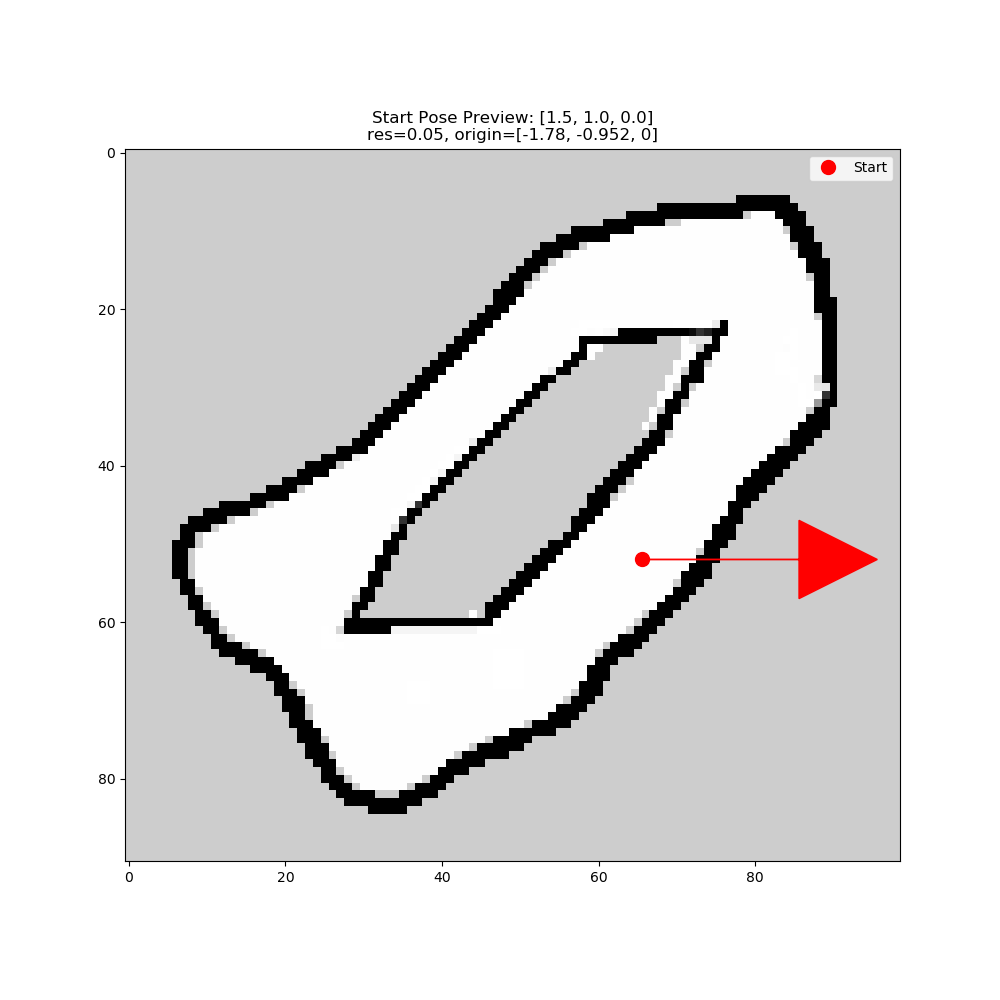
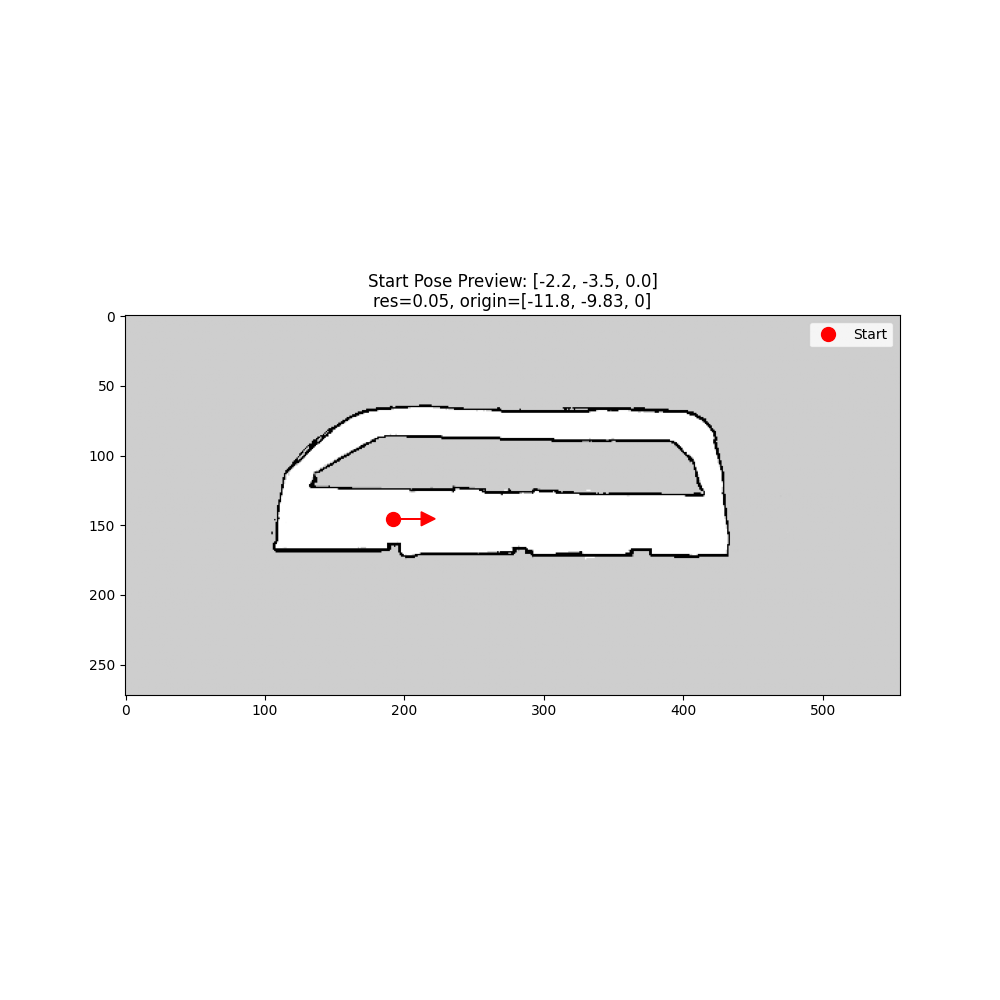
feat:exp37のために改善

diff --git a/src/rewards.py b/src/rewards.py
@@ -74,75 +74,49 @@ def calculate_reward(
         return cfg.reward_collision
 
     # ================================================================
-    # EXP-32: Hokuyo URG 270° マスキング (Sim-to-Real ギャップ解消)
+    # Hokuyo URG 270° マスキング (Sim-to-Real 対応)
     # 実機のHokuyo LiDARは後方90°が不可視。後方のインデックスを除外する。
     # 1080点(360°) → 810点(270°): 後方 135点ずつを除外
-    #   Index: 0=右後方(-135°), 405=正前方(0°), 810=左後方(+135°)
     # ================================================================
     _H_START, _H_END = 135, 945
     s = scans[_H_START:_H_END]  # 810点: -135°〜+135°
 
-    # 1. 前方空間報酬 (±60° = 810点の中心405±180点)
+    # 1. 前方空間報酬 (±60°)
     front_dist = np.min(s[225:585])
     reward = (front_dist / 30.0) * cfg.reward_front_weight
 
-    # 2. 側面壁距離を個別に取得 (狭い直線・カーブ対策の核心)
-    #    270°の場合: 右90° ≒ index 135付近, 左90° ≒ index 675付近
+    # 2. 側面壁距離の取得 (センターライン計算用)
     right_side = np.min(s[90:270])    # 右方向 (-90°±45°帯)
     left_side  = np.min(s[540:720])   # 左方向 (+90°±45°帯)
-    side_min   = min(right_side, left_side)
 
-    # 3. 速度報酬 / コーナー前補正 (EXP-32: 4段階評価)
+    # 3. 速度報酬 (EXP-25: 2.0m基準のシンプル補正)
     speed_factor = current_speed / cfg.max_speed
-    if front_dist < 2.0:           # 壁が目前: 強制ブレーキ
-        reward -= speed_factor * cfg.reward_speed_weight * 3.0
-        progress_scale = 0.05
-    elif front_dist < 4.0:         # コーナー手前: 早めに減速開始
-        reward += speed_factor * cfg.reward_speed_weight * 0.05
-        progress_scale = 0.4
-    elif front_dist < 7.0:         # 中間距離: 慎重に加速
-        reward += speed_factor * cfg.reward_speed_weight * 0.6
-        progress_scale = 0.8
-    else:                          # 直線: 加速推奨
+    if front_dist < 2.0:           # 壁が目前: ブレーキ奨励
+        reward -= speed_factor * cfg.reward_speed_weight * 2.0
+        progress_scale = 0.5
+    else:                          # 通常・直線: 加速推奨
         reward += speed_factor * cfg.reward_speed_weight
         progress_scale = 1.0
 
-    # 4. 安全距離スコア（全方位・連続関数で滑らかな勾配）
+    # 4. 安全距離スコア
     wall_dist = np.min(s)
     safety_score = np.clip(wall_dist / 2.0, 0.0, 1.0)
     reward += (safety_score - 0.5) * cfg.reward_safety_weight
 
-    # 5. センターライン維持【EXP-32 最優先: 二乗ペナルティ化】
-    # 狭い直線でもドリフトは即死のため、中心を外すほど急激にマイナス
+    # 5. センターライン維持 (EXP-25: 二乗なしの比率ペナルティ)
     total_width  = left_side + right_side
-    center_ratio = abs(left_side - right_side) / (total_width + 1e-6)  # 0=中央, 1=壁
-    center_penalty = -(center_ratio ** 2) * 10.0  # EXP-35: 20.0 -> 10.0 (物理を戻したのでマージン緩和)
+    center_ratio = abs(left_side - right_side) / (total_width + 1e-6)
+    center_penalty = -center_ratio * 4.0  # EXP-25: シンプルなペナルティ
     reward += center_penalty
 
-    # 6. 側面壁への超近距離ペナルティ【狭い直線対策: デッドライン0.35m】
-    # マシン横幅0.19m + 安全マージン ≈ 0.35mを死線とする
-    if side_min < 0.35:
-        reward += -np.exp(6.0 * (0.35 - side_min))   # 係数3→6に増強
-
-    # 7.「狭いカーブ」複合ペナルティ【EXP-32 核心: 前方詰まり × 側面接近の同時発生】
-    # 最も危険な状況（前が閉じていて左右も余裕がない）に重ペナルティ
-    in_narrow_curve = (front_dist < 4.5) and (side_min < 0.7)
-    if in_narrow_curve:
-        reward -= speed_factor * 4.0          # スピードを出しているほど強いペナルティ
-        reward += (1.0 - abs(action[0])) * 0.8  # じわっとしたステアを強く評価
-
-    # 8. 全方位近接ペナルティ (デッドライン 0.6→0.35m に厳格化)
-    if wall_dist < 0.35:
-        reward += -np.exp(4.0 * (0.35 - wall_dist))
-
-    # 9. 走行距離報酬（進行を促進、円形走行抑制）
+    # 6. 走行距離報酬
     progress = np.sqrt((cur_x - prev_x) ** 2 + (cur_y - prev_y) ** 2)
     reward += progress * cfg.reward_progress_weight * progress_scale
 
-    # 10. ステアリング安定性（中速域でも適用: front_dist > 3m で有効）
-    if front_dist > 3.0:
-        reward += (1.0 - abs(action[0])) * 0.4   # 係数 0.3→0.4
+    # 7. ステアリング安定性
+    reward += (1.0 - abs(action[0])) * 0.3
 
+    # 8. 生存報酬
     reward += cfg.reward_survival
 
     return reward

diff --git a/src/f1_env.py b/src/f1_env.py
@@ -41,8 +41,8 @@ class F1TenthRL(gym.Env):
             self.env.sim.agents[0].params['width'] = config.CAR_WIDTH
         
         # 観測空間の計算
-        # 1. LiDAR: 1080 -> ダウンサンプリング
-        self.lidar_size = 1080 // config.LIDAR_DOWNSAMPLE_FACTOR
+        # 1. LiDAR: 1080 -> 270°(810点) に制限しダウンサンプリング
+        self.lidar_size = 810 // config.LIDAR_DOWNSAMPLE_FACTOR
         
         # 2. 車両状態: [速度, ステアリング] (2次元)
         self.state_size = 2 if config.INCLUDE_VEHICLE_STATE else 0
@@ -82,8 +82,8 @@ class F1TenthRL(gym.Env):
         """
         生の観測データを加工して返す
         """
-        # LiDARデータのダウンサンプリング (EXP-23: mean -> min に復帰。積層も維持)
-        scans = raw_obs['scans'][0]
+        # LiDARデータのスライス (270°: 135-945) & ダウンサンプリング
+        scans = raw_obs['scans'][0][135:945]
         downsampled = scans.reshape(self.lidar_size, config.LIDAR_DOWNSAMPLE_FACTOR).min(axis=1)
         
         # ΔLiDAR（残差）の計算
@@ -143,8 +143,8 @@ class F1TenthRL(gym.Env):
         result = self.env.reset(poses=initial_poses)
         raw_obs = result[0] if isinstance(result, tuple) else result
 
-        # 初期状態のLiDARを取得してprev_lidarをセット
-        scans = raw_obs['scans'][0]
+        # 初期状態のLiDARをスライスしてprev_lidarをセット
+        scans = raw_obs['scans'][0][135:945]
         self.prev_lidar = scans.reshape(self.lidar_size, config.LIDAR_DOWNSAMPLE_FACTOR).min(axis=1)
 
         # 前位置をリセット

diff --git a/EXPERIMENT_REPORT.md b/EXPERIMENT_REPORT.md
@@ -94,12 +94,22 @@
     *   **目的**: 基本に立ち返り、`MIN_SPEED=0.1`, `MAX_SPEED=0.5` という超低速設定を導入。AIに「どんなに遅くても良いから、壁を避ければ報酬が得られる」という生存本能を徹底的に学習させる。
     *   **期待**: 低速での「絶対完走」を達成し、そこから段階的に速度（MAX_SPEED）を上げていくための最強のベースモデルを作成する。
 
+### フェーズ10：実機仕様への完全移行と新規挑戦（EXP-37 〜）
+プロジェクトの更なる Sim-to-Real 精度向上を目指し、AI の観測そのものを実機の物理限界に合わせる抜本的な再定義を行った。
+
+*   **EXP-37 (`270° Sensor Fusion & Fresh Start`)**
+    *   **事実**: 従来の 360° LiDAR は後方の壁まで見えており、実機の 270° センサー（Hokuyo URG）との間に情報の乖離（Sim-to-Real Gap）があった。
+    *   **戦略**: AI の入力ベクトルそのものを 108 次元から 81 次元（270°相当）に制限。次元変更を伴うため、過去のモデルを継承せず、新規マップ `map-tamoku` にてゼロから学習を開始。
+    *   **報酬**: 最も成功した EXP-25 のシンプルロジックをベースとし、前方 2.0m 基準の減速制御を統合。
+    *   **期待**: 「見えないものは無視する」という実機に忠実な視界を持たせることで、体育館のような広大かつ特殊な空間における制御の堅牢性を高める。
+
 ## 【まとめと今後の知見】
 本プロジェクトを通じて得られた最大の知見は以下の通りである。
 
-1.  **物理的制約の早期特定**: `MIN_SPEED` や実機寸法など、AI以前の物理パラメータがボトルネックになる。
+1.  **物理的制約の早期特定**: `MIN_SPEED` や実機寸法など、AI 以前の物理パラメータがボトルネックになる。
 2.  **カリキュラム学習の威力**: 困難な課題にいきなり挑ませず、広いコースから段階的に適応させる（Resume/Transfer Learning）ことが、複雑な地形への唯一の攻略法である。
-3.  **仮想的なマージン（Ghost Width）**: 衝突ギリギリの極狭環境では、AIに「実際より大きい自分」を意識させることで、不確定要素（スリップや処理遅延）に対する余裕が生まれる。
-4.  **Sim-to-Realの整合性**: 実機スペック（270°スキャン等）をシミュレーションの報酬系に最初から組み込むことで、現場での適応をスムーズにする。
+3.  **仮想的なマージン（Ghost Width）**: 衝突ギリギリの極狭環境では、AI に「実際より大きい自分」を意識させることで、不確定要素（スリップや処理遅延）に対する余裕が生まれる。
+4.  **Sim-to-Realの整合性**: 実機スペック（270°スキャン等）を観測および報酬系に最初から組み込むことで、現場での適応をスムーズにする。
+5.  **環境統計の重要性**: 広大なマップでは `LIDAR_MEAN` などの分布が極端に変化するため、学習開始前のキャリブレーションとそれに基づいた正規化が学習速度を左右する。
 
 今後は、実機搭載に向けた軽量化（ONNX化）や、動的障害物への対応などを視野に入れ、さらなる高度な自律走行（最短タイムの追求）を目指す。

diff --git a/README.md b/README.md
@@ -37,7 +37,7 @@ tensorboard --logdir logs --host localhost
 本プロジェクトでは、段階的な実験を通じて、F1Tenth車両の限界性能を引き出す学習を進めています。
 
 ### 🎯 技術的アプローチ
-- **LiDARダウンサンプリング**: 1080点 → 108点 / 216点に圧縮。計算負荷を抑えつつエッジを保持。
+- **LiDARダウンサンプリング**: 1080点 → 108点に圧縮。さらに実機（Hokuyo）に合わせ観測範囲を **270°** に制限することで Sim-to-Real ギャップを最小化。
 - **フレーム積層 (Frame Stacking)**: 複数フレームを重ねることで、時間的な情報の変化（接近速度等）をAIに認識させる。
 - **物理エンジンへの介入**: 車両寸法や最低速度制限（`MIN_SPEED`）を実機に合わせ、シミュレーションと現実の乖離を最小化。
 
@@ -93,11 +93,11 @@ f1tenth-rl-project/
 1.  **物理制限の壁**: `MIN_SPEED=1.0` ではコーナーを曲がりきれない。物理的に不可能なタスクをAIに強いると「直進して衝突」などの局所解に陥るため、適切な `MIN_SPEED`（0.3〜0.5）の設定が必須。
 2.  **行動の発散**: `log_std_init` を適切に設定しないと、行動のばらつき（std）が20を超えて発散（パニック状態）し、完走率が0%になる。初期値は `-1.0` 以下を推奨。
 3.  **Resume（継続学習）の威力**: 完走100%を達成した EXP-25 などの成功モデルから、速度設定のみを上げて Resume することで、曲がる能力を維持したまま高速化が可能。
-4.  **観測次元の整合性**: `DOWNSAMPLE_FACTOR` と `FRAME_STACK` の積が変わると観測次元が変わり、モデルのロードができなくなる。Resume時は必ずこれらの値を一致させること。
+4.  **観測次元の整合性**: `DOWNSAMPLE_FACTOR` と `FRAME_STACK` の積、および **LiDAR のスキャン角度範囲**が変更されると観測次元が変わり、モデルのロードができなくなる。270°化への移行時は Fresh学習を推奨。
 
 ---
 
 ## 📝 バージョン情報
-- **最終更新**: 2026-04-21
-- **最新実験フェーズ**: フェーズ9（物理特性の回帰と生存の極致）
+- **最終更新**: 2026-04-22
+- **最新実験フェーズ**: フェーズ10（実機仕様への完全移行と 270° 統一）
 - **対応環境**: Ubuntu 20.04 / 22.04 + Docker + SB3 (PPO)

diff --git a/EXPERIMENT_PLAN.md b/EXPERIMENT_PLAN.md
@@ -21,6 +21,7 @@
 *   **知見7（他マップでの汎用性）**: EXP-16モデルは `levine` マップで完走率 70%、平均速度 1.0m/s を記録。
 *   **知見8（極狭路の壁：1.8倍）**: `testmap-0416` のような極狭路（道幅1.8倍）では、センターラインから10cmずれるだけで即死する。報酬のスケール（Survival=0.5に対しCollision=-50程度）と、AIへの「だまし（仮想車幅）」によるマージン確保が不可欠。
 *   **知見9（カリキュラム学習）**: 困難な新マップへの適応には「広い地形で新報酬に慣れる（Phase 1）→ 極低速で地形を覚える（Phase 2）」という段階的な Resume 戦略が極めて有効。
+*   **知見10（観測空間の定義変更）**: LiDAR のスキャン範囲を 270° に制限する場合、入力次元数が 108 -> 81 に減少するため、既存モデルとの互換性が失われる。Sim-to-Real を優先する場合は Fresh学習が必須。
 
 ---
 
@@ -74,6 +75,7 @@
 | **EXP-34** | `Ghost Width + Strict Center`| — | — | — | 仮想車幅(0.23m)と強力なセンター報酬(x20)の合わせ技。 |
 | **EXP-35** | `Back to Original Frame` | — | — | — | 物理特性を標準(0.19m/1.0)に戻し感覚リセット。 |
 | **EXP-36** | `Snail Paced Survival` | — | — | — | **完了**: 極低速(0.1-0.5)で「生存」を刻み込み、完走の基礎を構築。 |
+| **EXP-37** | `270° Specification` | — | — | — | **進行中**: 観測空間を 270° に統一し、tamoku マップにて Fresh 学習開始。 |
 
 
 ---
